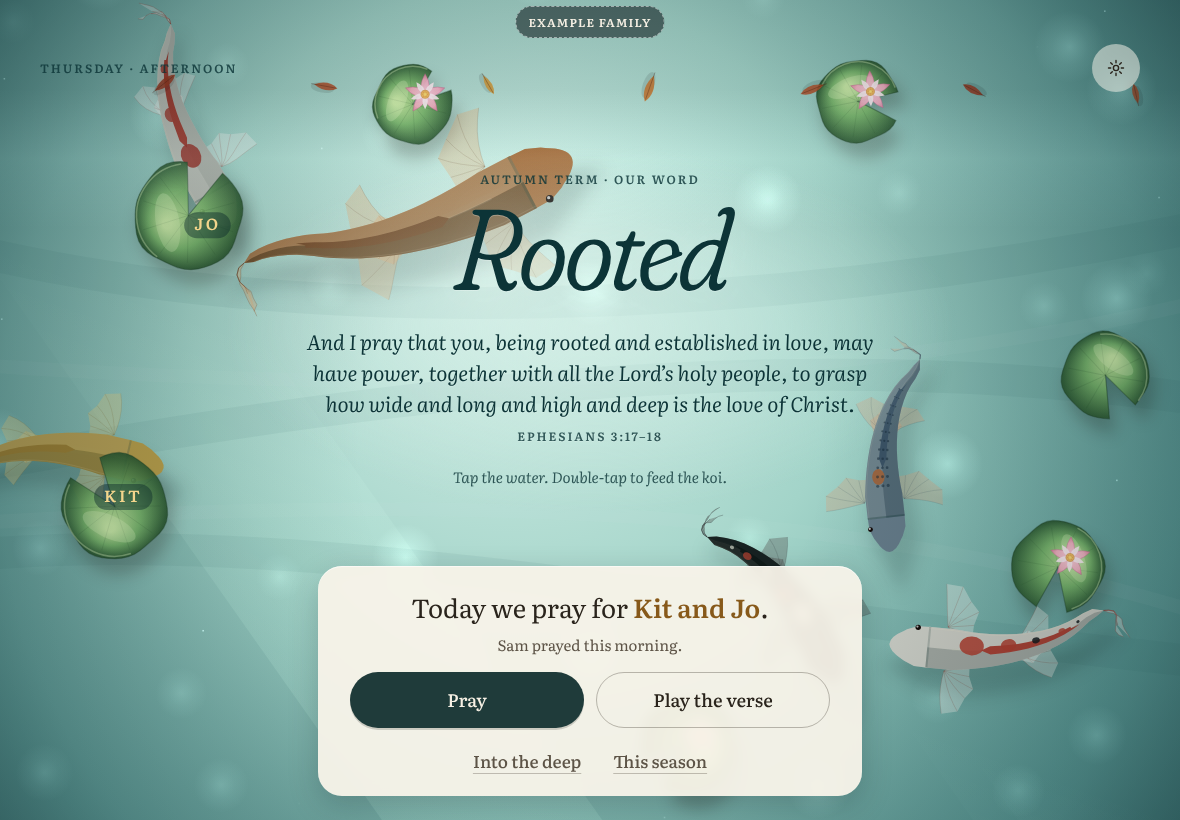
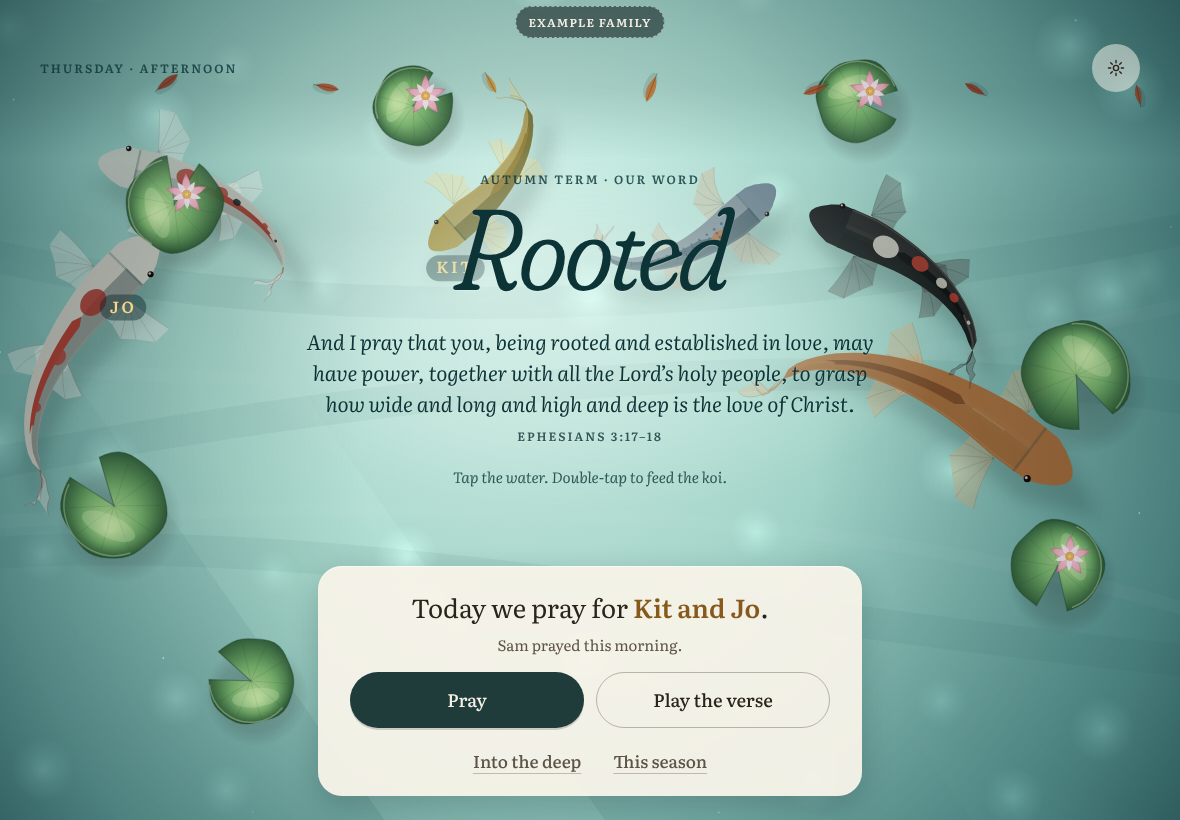
Quiet Waters: pads keep clear of the slip; pitch and screens (before and after, every moment)

diff --git a/src/app/pond/paint.js b/src/app/pond/paint.js
@@ -181,10 +181,18 @@ export function layoutPads(weeks, W, H) {
   const rx = W * (portrait ? 0.47 : 0.45);
   const ry = H * (portrait ? 0.46 : 0.44);
   const base = Math.max(22, Math.min(56, Math.min(W, H) * 0.06));
+  // Golden-angle steps round the ellipse, so pads spread out evenly
+  // however many there are, skipping the bottom middle, where the slip
+  // of paper floats.
+  const angles = [];
+  for (let k = 0; angles.length < weeks.length && k < 200; k++) {
+    const a = -Math.PI * 0.62 + k * 2.39996;
+    const d = Math.atan2(Math.sin(a - Math.PI / 2), Math.cos(a - Math.PI / 2));
+    if (Math.abs(d) < (portrait ? 0.95 : 0.7)) continue;
+    angles.push(a);
+  }
   return weeks.map((w, i) => {
-    // Golden-angle steps round the ellipse, so pads spread out evenly
-    // however many there are.
-    const a = -Math.PI * 0.62 + i * 2.39996;
+    const a = angles[i];
     const wob = ((i * 0.618) % 1) * 0.08;
     return {
       key: w.week,

diff --git a/bakeoff/entries/C/PITCH.md b/bakeoff/entries/C/PITCH.md
@@ -1,0 +1,81 @@
+# Entry C: *Quiet Waters*
+
+**One quiet place where a household prays for each other from Scripture every day,
+learns the week's verse by heart in play, and sees, in a pond that fills over the season,
+who they are becoming.**
+
+## Who it serves, and how
+
+- **Dad, 06:45, phone, in the dark.** One tap on the home-screen icon, one on *Pray*.
+  The water stills into night paper and the sitting runs in the same order every day:
+  three breaths with the week's breath prayer, the verse read twice with its word lifted
+  out in gold, twenty seconds of quiet, then the prayer for today's two people one
+  thought at a time. When his mind wanders, *Wandered?* gives back one word to return
+  with. That is Centering Prayer's oldest answer, not a nudge or a streak. Amen is held
+  in silence, and then their koi rise beneath the page.
+- **The children, after dinner, tablet.** The app knows they're in the room, so the
+  prayer is in simple words, a different child reads each card (their koi colour shows
+  whose turn), then "I wonder…" and the blessing together. Amen, feed the koi, then
+  *Play the verse*: their favourite puzzle, now in four steps across the week, ending in
+  *By heart*. Different words fall each time, so replaying teaches the verse, not five of
+  its words.
+- **Sunday, everyone.** The Lord's Prayer, each person held with their own word for the
+  season, the verse said together from memory (a lotus opens on the pond), and the week
+  looked back on. The new prayer arrives on Monday morning as a small surprise.
+- **A glance.** Left alone, the tablet becomes the pond: the family's word in the water,
+  the verse, and today's names beside their koi. It can be kept awake.
+
+## What we kept, merged, cut and added
+
+- **Kept:** the koi (and feeding them), the verse puzzle's feel, Pray's craft and every
+  word of its fourteen prayers, Amen bringing the koi. These are the things this family
+  already loves.
+- **Merged:** Pond, Pray, Abide, Today and Make into **one app with one door**. Abide's
+  best ideas live on: the breath prayer, reading twice, the stillness, "I wonder", the
+  stones, the slow accumulation. The board became **seasons**: each person's word feeds
+  the family's word, chosen together by passing the tablet round.
+- **Cut:**
+  - Abide's sow-grow-gather, a second daily practice in a second world.
+  - The vineyard: a young one is an empty field.
+  - Flourish, Murmuration, Labs and Admin.
+  - The voice, person, celebration and patience settings, which are now inferred from
+    who's in the room.
+  - Notifications, which we never built.
+
+  The old addresses still redirect.
+- **Added:**
+  - **Into the deep**, a confession that lands for an adult: reflection first, then one
+    stone opened from the hand, and "He casts it into the depths". Children each throw a
+    stone (sorry) or a flower (thank you).
+  - Night paper.
+  - A rota worked out from the date, so the phone and the tablet agree on today without
+    sync.
+  - Any household: set up in a minute, or carry it to another device with a link.
+  - Installable, works offline, and a printed weekly card for the bedside.
+  - An example family at `?demo=1`.
+
+## Why a family would choose it every day
+
+It asks for five minutes and gives something back each time, without ever counting
+anything against anyone. There are no streaks, no scores, no notifications, and nothing
+withers when you miss a day (a week away comes back to "Welcome back."). The children
+come back for the koi and the puzzle. Dad comes back because it keeps his attention on
+the two people in front of God instead of on the app. The pond is a different picture at
+dawn, by day, at dusk and at night. It fills with lily pads and lotuses over the term, so
+the family can see what has taken root.
+
+## How it grows
+
+- **The data model is already shaped for sync:** a household, seasons and append-only
+  sittings. A small backend (Supabase, say) slots in behind `store.js` with no change to
+  the rooms.
+- **Accounts and other families:** setup and the device link already make any household
+  work. Sign-in replaces the link.
+- **New disciplines are new sittings in the same grammar** (still, Scripture, respond,
+  Amen), opened from the pond:
+  - an evening Examen, starting from *Into the deep*;
+  - Sabbath, starting from Sunday;
+  - fasting, as a season practice.
+- **Sound, when wanted:** a bell to open the threshold, and the verse read aloud for
+  pre-readers.
+- **Licensing:** NIV for a paid product is a backlog question.

diff --git a/bakeoff/entries/C/screens/README.md b/bakeoff/entries/C/screens/README.md
@@ -1,0 +1,20 @@
+# Screens: entry C
+
+Every moment, **before** (today's app, `bakeoff/r1-base` run locally) and **after**
+(Quiet Waters), at phone (390 × 844) and tablet (1180 × 820). Captured with Playwright
+from the example family (`?demo=1`). The hour is set with `?h=` so each moment shows its
+own light.
+
+| # | Moment | Before | After |
+|---|---|---|---|
+| 1 | 06:45, Dad, phone | `1-dad-0645-before.png` (Pray at 06:45: cream paper) | `1-dad-0645-home-phone.png` (the pond before dawn) · `1-dad-0645-after-phone.png` (the verse, second reading, its word in gold) · `1-dad-0645-after-phone-prayer.png` (a thought of the prayer, *Wandered?* open) · `1-dad-0645-after-tablet.png` |
+| 2 | After dinner, children, tablet | `2-children-before.png` (the old puzzle) | `2-children-after-tablet-pray.png` (Ada reads) · `2-children-after-tablet-amen.png` (Amen, the koi of those prayed for) · `2-children-after-tablet-play.png` · `2-children-after-phone-play.png` |
+| 3 | Sunday, everyone | `3-sunday-before.png` | `3-sunday-after-tablet.png` (each person held, with their word) · `3-sunday-after-tablet-verse.png` (the verse from memory) · `3-sunday-after-phone.png` |
+| 4 | A glance | `4-glance-before.png` (screensaver) | `4-glance-after-tablet-night.png` · `4-glance-after-tablet-day.png` · `4-glance-after-phone.png` |
+| 5 | Clearing the ground | `5-confession-before.png` (Abide's field) | `5-confession-after-phone-adult.png` (look back over the day) · `5-confession-after-tablet-children.png` (a stone and a flower in the pond) |
+| 6 | Looking back | `6-looking-back-before.png` (a young vineyard) | `6-looking-back-after-tablet.png` (the pond with six weeks of pads and lotuses) · `6-looking-back-after-phone.png` (what has taken root) |
+| 7 | New season | `7-new-season-before.png` (`/make/`) | `7-new-season-after-tablet.png` (pass it to Ada) · `7-new-season-after-phone.png` (this season) |
+| 8 | First run | `8-first-run-before.png` (lands on one adult's board) | `8-first-run-after-phone.png` · `8-first-run-after-tablet.png` · `8-first-run-after-phone-setup.png` |
+
+`directions/` holds the three style tiles (the 06:45 prayer in each direction) and a
+side-by-side image.
